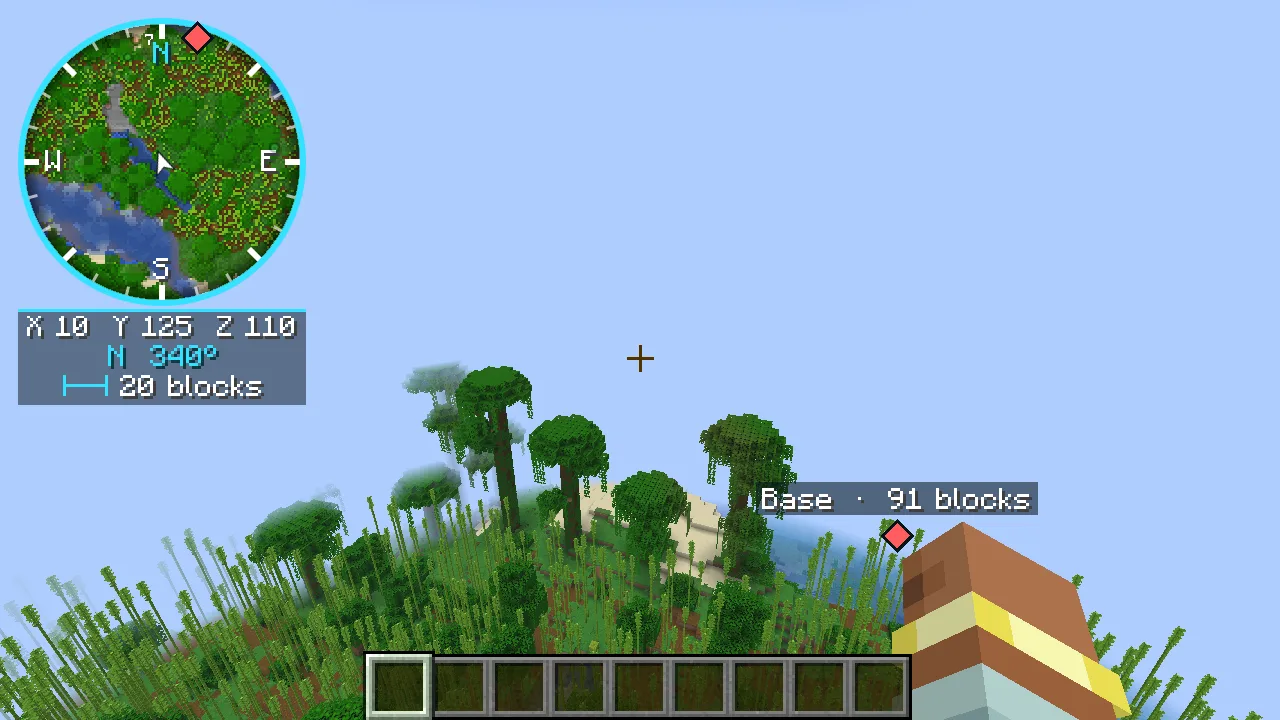
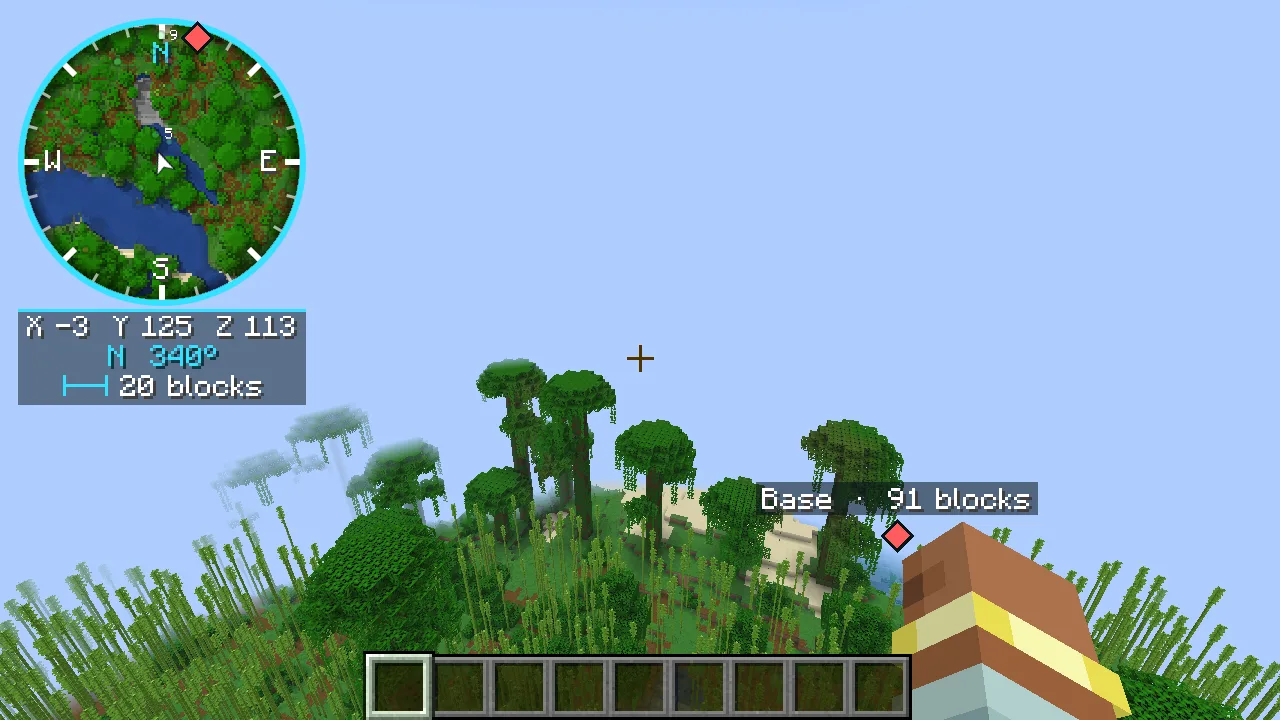
Zenith MC page: what 0.3.0 adds
The Zenith MC page now describes the 0.3.0 mod: the world map's relief and block textures,
a card for seeing any height (Page Up and Page Down, caves remembered), a card for mob health
and armour, the spy boxes showing them, the height keys in the install steps, and the online
warning naming caves at any height and mob health and armour (and what the server switches turn
off). Three pictures retaken in the development game with 0.3.0: the minimap, the world map and
the player card; spy, X-ray and FLIR are unchanged. Not published.

diff --git a/alon-site/mc.html b/alon-site/mc.html
@@ -5,7 +5,7 @@
   <meta name="viewport" content="width=device-width, initial-scale=1" />
   <meta name="robots" content="noindex, nofollow" />
   <title>Zenith MC: download</title>
-  <meta name="description" content="Zenith MC is a Fabric mod for Minecraft Java Edition 26.2: a minimap, a world map, waypoints, a radar and eye modes in the Zenith look." />
+  <meta name="description" content="Zenith MC is a Fabric mod for Minecraft Java Edition 26.2: a minimap, a world map that shows any height, waypoints, a radar with mob health and armour, and eye modes in the Zenith look." />
   <link rel="icon" type="image/png" href="zenith-favicon.png" />
   <link rel="stylesheet" href="style.css" />
 </head>
@@ -32,11 +32,13 @@
     <section>
       <h2>What it does</h2>
       <ul class="grid">
-        <li><svg viewBox="0 0 24 24" aria-hidden="true"><circle cx="12" cy="12" r="9" /><path d="M12 3v3M12 18v3M3 12h3M18 12h3" /><path d="M12 8l2 4h-4z" /></svg><h3>Minimap and world map</h3><p>A round minimap with a compass dial and a scale bar, and a full map with soft relief that you drag and zoom. Explored land is remembered, and caves show the layer you are on.</p></li>
+        <li><svg viewBox="0 0 24 24" aria-hidden="true"><circle cx="12" cy="12" r="9" /><path d="M12 3v3M12 18v3M3 12h3M18 12h3" /><path d="M12 8l2 4h-4z" /></svg><h3>Minimap and world map</h3><p>A round minimap with a compass dial and a scale bar, and a full map you drag and zoom. Relief lit from one side makes trees and cliffs stand out, and zoomed in close each block shows its own texture. Explored land is remembered.</p></li>
+        <li><svg viewBox="0 0 24 24" aria-hidden="true"><path d="M4 7h16M4 12h16M4 17h16" /><path d="M19 3l2 2-2 2M19 21l2-2-2-2" /></svg><h3>Any height</h3><p>Underground, the maps show the cave layer you are on. On the world map, <code>Page Up</code> and <code>Page Down</code> show any height, 16 blocks at a time, and caves you walk through are remembered.</p></li>
         <li><svg viewBox="0 0 24 24" aria-hidden="true"><path d="M12 21s7-6.2 7-11a7 7 0 1 0-14 0c0 4.8 7 11 7 11z" /><circle cx="12" cy="10" r="2.5" /></svg><h3>Waypoints</h3><p>Name and colour your places, see them in the world with their distance, and find where you last died.</p></li>
         <li><svg viewBox="0 0 24 24" aria-hidden="true"><circle cx="12" cy="12" r="9" /><circle cx="12" cy="12" r="5" /><path d="M12 12l6-6" /><circle cx="16" cy="9" r="1" /><circle cx="8" cy="14" r="1" /></svg><h3>Radar</h3><p>Mobs as coloured dots that merge into one when crowded, other players as their face, and a search that points you to a player.</p></li>
+        <li><svg viewBox="0 0 24 24" aria-hidden="true"><path d="M12 20s-7-4.4-7-9.5A3.8 3.8 0 0 1 12 8a3.8 3.8 0 0 1 7 2.5C19 15.6 12 20 12 20z" /></svg><h3>Mob health and armour</h3><p>Each mob's type, with one heart for its health and one icon for its armour. Look at it in spy mode, or click it on the world map, for its full rows of hearts and armour.</p></li>
         <li><svg viewBox="0 0 24 24" aria-hidden="true"><rect x="3" y="5" width="18" height="14" rx="2" /><circle cx="8.5" cy="11" r="2" /><path d="M5.5 16h6M14 10h4M14 13.5h4" /></svg><h3>Player cards</h3><p>On the world map, players near you get a card with their face, name, hearts and armour. Click it for the spy panel: what they wear and hold, their game mode and ping.</p></li>
-        <li><svg viewBox="0 0 24 24" aria-hidden="true"><path d="M2 12s3.6-6 10-6 10 6 10 6-3.6 6-10 6S2 12 2 12z" /><circle cx="12" cy="12" r="3" /></svg><h3>Eye modes</h3><p>Night vision, full bright, spy with target boxes and a sonar sweep, X-ray, FLIR heat vision and an old CRT screen. Each has its own key.</p></li>
+        <li><svg viewBox="0 0 24 24" aria-hidden="true"><path d="M2 12s3.6-6 10-6 10 6 10 6-3.6 6-10 6S2 12 2 12z" /><circle cx="12" cy="12" r="3" /></svg><h3>Eye modes</h3><p>Night vision, full bright, spy with target boxes that show each mob's health and armour and a sonar sweep, X-ray, FLIR heat vision and an old CRT screen. Each has its own key.</p></li>
         <li><svg viewBox="0 0 24 24" aria-hidden="true"><path d="M4 20l6-6M14 4l6 6-8 8-6-6z" /></svg><h3>Teleport in creative</h3><p>Double-click a spot on the map to go there, landing on the highest safe block. Only in creative mode, where you may use the <code>/tp</code> command.</p></li>
       </ul>
       <div class="shots">
@@ -45,8 +47,8 @@
           <figcaption><strong>Minimap and waypoints.</strong> The minimap with its dial and scale, and a waypoint marker with its distance.</figcaption>
         </figure>
         <figure>
-          <a href="shots/zenith-mc-world-map.webp"><img src="shots/zenith-mc-world-map.webp" width="1280" height="720" loading="lazy" alt="The full world map of a Minecraft jungle with a river and a lake, soft relief shading, and a key to the radar colours" /></a>
-          <figcaption><strong>World map.</strong> Explored land with soft relief, and the key to the radar colours.</figcaption>
+          <a href="shots/zenith-mc-world-map.webp"><img src="shots/zenith-mc-world-map.webp" width="1280" height="720" loading="lazy" alt="The full world map of a Minecraft jungle with a river and a lake: trees standing out in relief, leaves and water drawn with their own textures, the height control set to Auto at the top right, and a key to the radar colours" /></a>
+          <figcaption><strong>World map.</strong> Explored land in relief with each block's own texture, the height control, and the key to the radar colours.</figcaption>
         </figure>
         <figure>
           <a href="shots/zenith-mc-player-card.webp"><img src="shots/zenith-mc-player-card.webp" width="1280" height="720" loading="lazy" alt="The world map with another player, Scout, shown as a face with a card above: name, red hearts with gold absorption hearts, and a row of armour" /></a>
@@ -62,7 +64,7 @@
         </figure>
       </div>
       <p class="credit">Pictures taken in Minecraft with Zenith MC.</p>
-      <p class="note"><strong>Read this before you use it online.</strong> X-ray, the mob and player radar, the cave map, player health and armour cards, target boxes and FLIR outlines through walls break the rules of many servers, and using them there can get you banned. Many servers also hide their ores from mods like this: there, X-ray can show fake ores that are not really there, or miss real ones. Use these in your own worlds, or on servers that say they are allowed. Servers can switch the radar off, which also hides the cards, target boxes and FLIR outlines, and can switch the cave map off on its own; X-ray has no switch.</p>
+      <p class="note"><strong>Read this before you use it online.</strong> X-ray, the mob and player radar, the cave map and the world map's caves at any height, the health and armour of players and mobs, target boxes and FLIR outlines through walls break the rules of many servers, and using them there can get you banned. Many servers also hide their ores from mods like this: there, X-ray can show fake ores that are not really there, or miss real ones. Use these in your own worlds, or on servers that say they are allowed. Servers can switch the radar off, which also hides the cards, mob health and armour, target boxes and FLIR outlines, and can switch the cave map off on its own, which leaves the world map on the surface; X-ray has no switch.</p>
     </section>
 
     <section>
@@ -72,7 +74,7 @@
         <li><strong>Install Fabric Loader for Minecraft 26.2.</strong> Download the installer from <a href="https://fabricmc.net/use/installer/" rel="noopener noreferrer">fabricmc.net</a>, run it, choose Minecraft 26.2 and press Install. The Minecraft launcher then has a <code>fabric-loader</code> profile.</li>
         <li><strong>Download Fabric API for 26.2</strong> from <a href="https://modrinth.com/mod/fabric-api" rel="noopener noreferrer">Modrinth</a>. Pick a file marked for 26.2.</li>
         <li><strong>Put both files in your mods folder.</strong> The Fabric API file and the Zenith MC file go in the <code>mods</code> folder of your Minecraft folder: on a Mac <code>~/Library/Application Support/minecraft/mods</code>, on Windows <code>%appdata%\.minecraft\mods</code>. Make the <code>mods</code> folder if it is not there.</li>
-        <li><strong>Start Minecraft with the Fabric profile.</strong> Then press <code>M</code> for the world map, <code>B</code> to add a waypoint and <code>N</code> for the settings. <code>G</code> cycles the eye modes, or press one key for each: <code>V</code> night vision, <code>J</code> full bright, <code>K</code> spy, <code>R</code> X-ray, <code>;</code> FLIR, <code>H</code> CRT. Every key can be changed in Controls. The keys are where they are on a US keyboard; on other keyboards, Controls shows their names on yours.</li>
+        <li><strong>Start Minecraft with the Fabric profile.</strong> Then press <code>M</code> for the world map, <code>B</code> to add a waypoint and <code>N</code> for the settings. <code>G</code> cycles the eye modes, or press one key for each: <code>V</code> night vision, <code>J</code> full bright, <code>K</code> spy, <code>R</code> X-ray, <code>;</code> FLIR, <code>H</code> CRT. Every one of these keys can be changed in Controls. On the world map, <code>Page Up</code> and <code>Page Down</code>, or the arrows at the top right, change the height it shows. The keys are where they are on a US keyboard; on other keyboards, Controls shows their names on yours.</li>
       </ol>
       <ul class="plain">
         <li><strong>Minecraft 26.2 only, for now.</strong> Other versions come later.</li>
